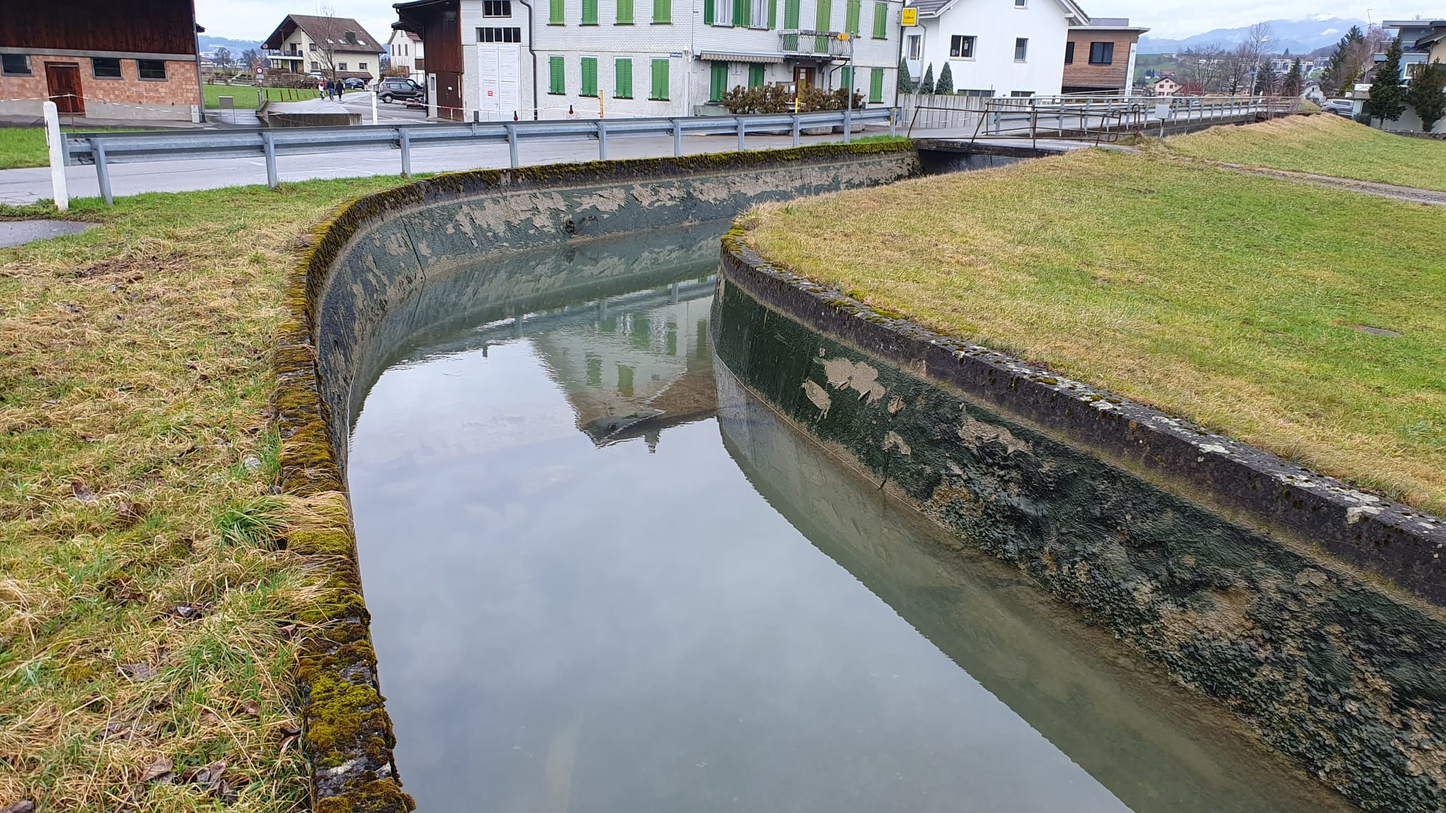
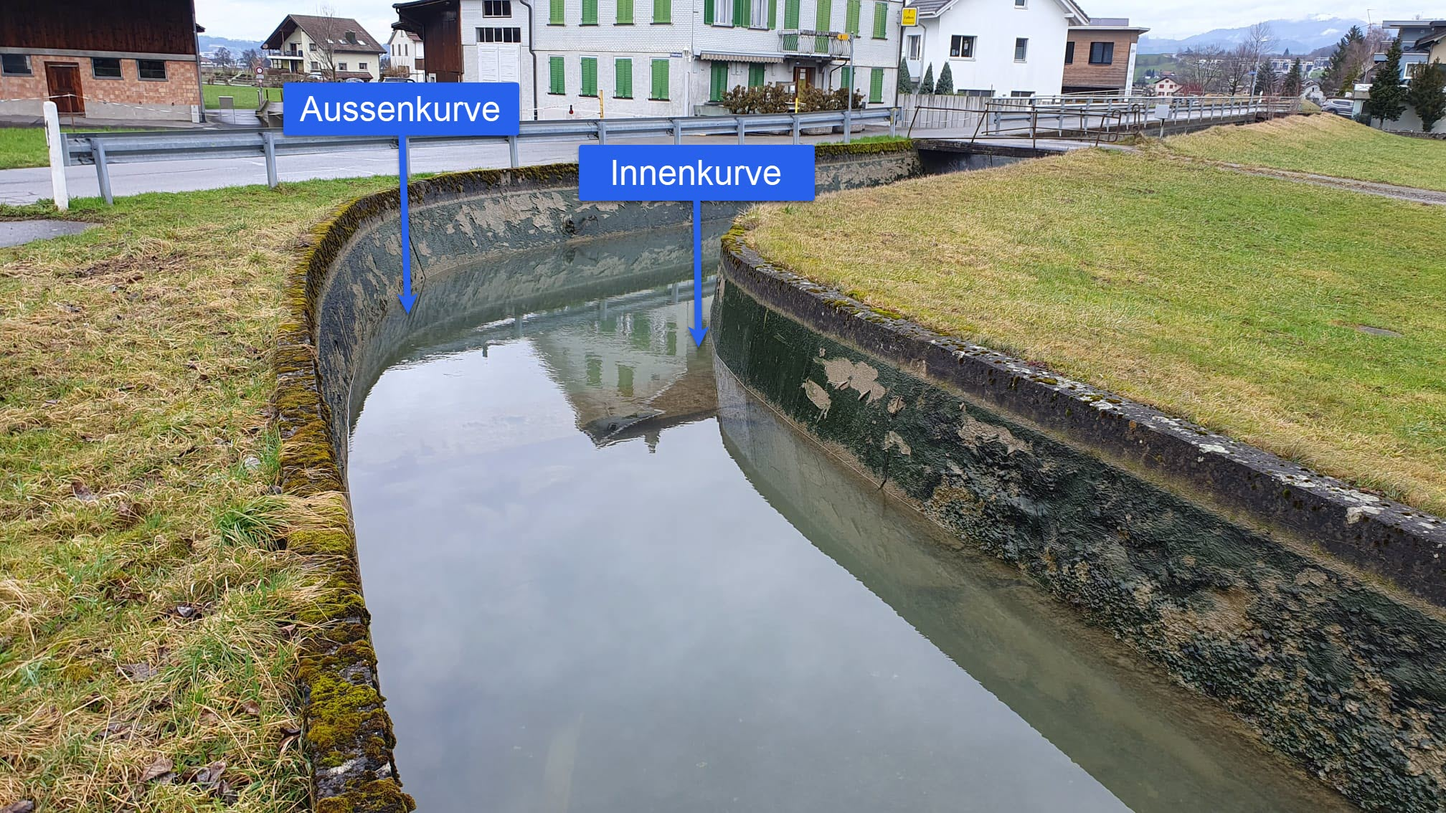
update questions

Changed region(s): [[0.375, 0.1543, 0.5625, 0.4321], [0.1875, 0.0926, 0.375, 0.3704]]

diff --git a/src/assets/data.ts b/src/assets/data.ts
@@ -11,15 +11,15 @@ export const data: QuizQuestion[] = [
   {
     question: "Wie lange ist der Mühlebachkanal?",
     options: ["800 m", "2.7 km", "4.4 km", "13 km"],
-    image: "muehlebach_hoehe_falken.jpg",
-    imageCaption: "Mühlebach auf Höhe Restaraunt Falken in Siebnen.",
+    image: "muehlebach_unterhalb_fabrik.jpg",
+    imageCaption: "Mühlebach auf Höhe Restaraunt Falken in Siebnen mit Blick Richtung Alte Fabrik in Siebnen.",
     description: "Der Mühlebachkanal wird in Siebnen beim Wehr (gegenüber reformierter Kirche) abgezweigt und fliesst auf rund 4.4 km Länge via Wangen nach Nuolen in den Zürichsee.",
     ans: 2,
   },
   {
-    question: "Wie gross ist der Höhenunterschied vom Beginn des Baches in Siebnen bis nach Nuolen?",
+    question: "Wie gross ist der Höhenunterschied vom Beginn des Baches in Siebnen bis ans Ende in Nuolen?",
     image: "ortsnamen_nuolenbach.png",
-    imageCaption: "Verlauf des Nuolenbach von Siebnen bis nach Nuolen. Screenshot von ortsnamen.ch.",
+    imageCaption: "Verlauf des Mühlebach oder Nuolenbach genannt, von Siebnen bis nach Nuolen. Screenshot von ortsnamen.ch.",
     options: ["3.5 Meter", "7 Meter", "15 Meter", "39 Meter"],
     description: "Beim Wehr in Siebnen befindet sich der Bach auf 444 und in Nuolen auf 405 Meter über Meer. Das macht eine Höhendifferenz von 39 Metern.",
     ans: 3,
@@ -27,34 +27,34 @@ export const data: QuizQuestion[] = [
   {
     question: "An wie vielen Stunden im Jahr fliesst Wasser im Mühlebach, welches von der Wägitaler Aa in Siebnen abgezweigt wird?",
     image: "wehr_siebnen.gif",
-    imageCaption: "Wehr bei Aabrücke in Siebnen im Zeitraffer.",
-    options: ["24 Stunden", "2'000 Stunden", "5'000 Stunden", "8'766 Stunden (1 volles Jahr)"],
+    imageCaption: "Wehr bei Aabrücke in Siebnen im Zeitraffer. Hier wird das Wasser für den Mühlebach abgezweigt.",
+    options: ["24 Stunden", "2'000 Stunden", "5'000 Stunden", "8'766 Stunden (das ganze Jahr)"],
     description: "Der Mühlebachkanal kann nur mit Wasser beschickt werden, wenn im Kraftwerk Wägital Strom produziert wird und das Stauwehr unterhalb der Kantonsstrassenbrücke in Siebnen angehoben ist. Das ist in der Regel während 2'000 Stunden im Jahr der Fall, wovon 1'500 Stunden auf das Winterhalbjahr fallen. Das sind 83 Tage oder 23% des Jahres.",
     ans: 1,
   },
   {
     question: "Wann wurde der Mühlebach zum Kanal umgebaut?",
     image: "ew_wirth.png",
-    imageCaption: "Die ehemalige Spinnerei Honegger in Siebnen, heute bekannt als Alte Fabrik. Bild von Valentin Kessler aus Zeitschrift \"Mitteilungen des historischen Vereins des Kantons Schwyz\".",
+    imageCaption: "Die ehemalige Spinnerei Honegger in Siebnen, heute bekannt als Alte Fabrik. Davor der begradigte Mühlebachkanal. Bild: Valentin Kessler",
     options: ["1802", "1852", "1902", "1952"],
-    description: "Im Jahr 1852 initiierte der Unternehmer Caspar Honegger die Kanalisierung des Mühlebachs. Zusätzlich liess er in jener Zeit die Baumwollspinnerei errichten, die heute im Volksmund \"Alte Fabrik\" genannt wird. In dieser Fabrik wurde anfangs Garn und später auch Stoffe hergestellt. Nach Anfangsschwierigkeiten machte man das sehr erfolgreich. In der Neuzeit jedoch immer weniger (Globalisierung, Billigprodukte aus Asien, etc.) und so wurde die Produktion 1979 eingestellt. Die Fabrik steht unter Denkmalschutz und beherbergt heute Kleingewerbe und Studios.",
+    description: "Im Jahr 1852 initiierte der Unternehmer Caspar Honegger die Kanalisierung des Mühlebachs. Zusätzlich liess er in jener Zeit die Baumwollspinnerei errichten, die heute im Volksmund \"Alte Fabrik\" genannt wird. In dieser Fabrik wurde anfangs Garn und später auch Stoffe  für Kleider, Vorhänge, Tischtücher etc. hergestellt. Nach Anfangsschwierigkeiten machte man das sehr erfolgreich. In der Neuzeit jedoch immer weniger (Globalisierung, Billigprodukte aus Asien) und so wurde die Produktion 1979 eingestellt. Die Fabrik steht unter Denkmalschutz und beherbergt heute Kleingewerbe und Studios.",
     ans: 1,
   },
   {
     question: "Wie viele Kleinwasserkraftwerke gibt es heute am Mühlebach?",
-    image: "ew_wirth_turbine_siebnen.jpg",
-    imageCaption: "Turbine auf dem Gelände der Alten Fabrik. Damit wurde Strom für die Fabrik produziert. Aufnahme aus den 1970er Jahren. Foto von Heinz Baumann, ETH Bildarchiv.",
+    image: "alte_turbine_nuolen.jpg",
+    imageCaption: "Alte Turbine in Nuolen. Foto von der Webseite des EW Wangen.",
     options: ["Es gibt heute kein Kraftwerk mehr", "2 Kraftwerke", "4 Krafwerke"],
-    description: "Das Wasser wird auf dem Weg von Siebnen bis Nuolen an vier Standorten in Kleinwasserkraftwerken turbiniert. Das Elektrizitätswerk der Gemeinde Wangen betreibt zwei Kraftwerke. Zum einen das Kraftwerk Seidenweberei in Wangen und zum anderen das Kraftwerk Bruggholz in Nuolen. Zudem betreibt die EW Wirth AG am Mühlebachkanal ebenfalls zwei Kraftwerke. Das Kraftwerk Kopf, welches südlich der SBB-Gleise liegt, sowie das Kraftwerk der ehemaligen Spinnerei auf dem obigen Bild.",
+    description: "Das Wasser wird auf dem Weg von Siebnen bis Nuolen an vier Standorten in Kleinwasserkraftwerken turbiniert. Zwei befinden sich unterhalb der Bahnline, zwei oberhalb in Siebnen. Jene Turbine in Nuolen hat eine elektrische Leistung von 82 kW. Die Jahresproduktion von nur dieser einzelnen Turbine beträgt rund 200'000 kWh. Das entspricht dem Jahresverbrauch von ca. 50 Schweizer Haushalten.",
     ans: 2,
   },
   {
-    question: "Wie viel Strom generiert die Turbine in Nuolen in einem Jahr?",
-    image: "alte_turbine_nuolen.jpg",
-    imageCaption: "Alte Turbine in Nuolen. Foto von der Webseite des EW Wangen.",
-    options: ["Strom für 2 Schweizer Haushalte (8'000 kWh)", "Strom für 10 Schweizer Haushalte (40'000 kWh)", "Strom für 35 Schweizer Haushalte (140'000 kWh)", "Strom für 50 Schweizer Haushalte (200'000 kWh)"],
-    description: "Die elektrische Leistung der Turbine in Nuolen beträgt 82 kW. Die Jahresproduktion beträgt rund 200'000 kWh. Das entspricht dem Jahresverbrauch von ca. 50 Haushalten.",
-    ans: 3,
+    question: "Wo fliesst das Wasser in einer Kurve am schnellsten?",
+    image: "muehlebach_hoehe_falken.jpg",
+    imageCaption: "Mühlebach auf Höhe Restaurant Falken in Siebnen.",
+    options: ["Aussenurve", "Innenkurve", "Überall gleich schnell"],
+    description: "In der Aussenkurve fliesst das Wasser schneller. Da die äussere Seite der Kurve einen grösseren Radius hat als die innere Seite, muss das Wasser an der Aussenseite eine grössere Strecke zurücklegen. Um die Kontinuität aufrechtzuerhalten, erhöht das Wasser seine Geschwindigkeit an der Aussenkurve, während es an der Innekurve  langsamer fliesst. An Flüssen mit einem natürlichen Bachbett kann man diesen Effekt erkennen, an den Sedimenten (Geröll & Sand), welche sich an der Innenkurve ablagern. An der Aussenkurve hingegen wird das Ufer abgetragen.",
+    ans: 0,
   },
   {
     question: "Wie hoch ist die Durchflussmenge des Mühlebachs pro Sekunde?",
@@ -65,9 +65,9 @@ export const data: QuizQuestion[] = [
   {
     question: "Wie stark schwankt der Wasserpegel im Wägitalersee?",
     image: "Wikipedia_Waegitalerstausee_Roland_Zumbuehl.jpg",
-    imageCaption: "Wägitalersee mit Blick nach Innerthal. Foto Wikipedia, Roland Zumbuehl.",
+    imageCaption: "Wägitalersee mit Blick nach Innerthal. Im Hintergrund der Gross Aubrig. Foto Wikipedia, Roland Zumbuehl.",
     options: ["5 Meter", "20 Meter", "50 Meter", "100 Meter"],
-    description: "Um Hangrutsche zu vermeiden, wird nur die Wassermenge zwischen den Staukoten 880 und 900 m ü. Meer bewirtschaftet. Der See kann also um 20 Meter ansteigen oder absinken. Der See hat eine Fläche von 4.18 Quadratkilometern, was 585 Fussballfeldern entspricht. Die maximale Tiefe beträgt 65 Meter. Er fasst 150 Mio. m3 Wasser. Das Füllen des Wägitalersees dauerte zwei Jahre. Aus diesem Grund wurde schon während des Baus der Staumauer mit dem Aufstauen begonnen.",
+    description: "Um Hangrutsche zu vermeiden, wird nur die Wassermenge zwischen den Staukoten 880 und 900 m ü. Meer bewirtschaftet. Der Wägitalersee kann also um 20 Meter ansteigen oder absinken. Der See hat eine Fläche von 4.18 Quadratkilometern, was 585 Fussballfeldern entspricht. Die maximale Tiefe beträgt 65 Meter. Er fasst 150 Mio. m3 Wasser. Das Füllen dauerte zwei Jahre. Aus diesem Grund wurde schon während des Baus der Staumauer mit dem Aufstauen begonnen.",
     ans: 1,
   },
   {
@@ -75,15 +75,15 @@ export const data: QuizQuestion[] = [
     image: "luca-LriqS4xCRi4-unsplash-1024x683.jpg",
     imageCaption: "Die Bauzeit von ca 2 Jahren (1922 - 1924) für Staumauer Schräh war für damalige Verhältnisse enorm kurz. Bild: unsplash",
     options: ["44 Meter", "66 Meter", "88 Meter", "111 Meter"],
-    description: "Die Staumauer ist als Gewichtsstaumauer ausgeführt. Von den 111 m Gesamthöhe sind 66 m sichtbar über der Talsohle. Die Krone ist 156 m lang und oben 4.6 m breit. Unten ist die Mauer 75 m breit.",
+    description: "Die Staumauer ist als Gewichtsstaumauer ausgeführt. Von den 111 m Gesamthöhe sind 66 m sichtbar über der Talsohle. Die Krone ist 156 m lang und oben 4.6 m breit. Unten ist die Mauer 75 m dick.",
     ans: 1,
   },
   {
     question: "Wann läuft die Konzession (Vertrag) für das Kraftwerk Wägital mit der Stadt Zürich und der Axpo aus?",
     image: "SIK_05-IKS-SZ-1609-045.jpg",
-    imageCaption: "Kraftwerk Wägital Zentrale Siebnen. Eine Konzession ist in diesem Fall eine Erlaubnis oder Genehmigung für die Nutzung von Wasserressourcen. Bild: Sylvia Bärtschi, ETH Bildarchiv.",
+    imageCaption: "Kraftwerk Wägital Zentrale Siebnen. Eine Konzession ist in diesem Fall eine Genehmigung für die Nutzung des Wassers vom Wägitalersee, welche der Bezirk March (und somit wir alle) an ein Unternehmen vergeben. Bild: Sylvia Bärtschi, ETH Bildarchiv.",
     options: ["2025", "2040", "2050", "2060"],
-    description: "1921 gründeten die Stadt Zürich und die Nordostschweizerischen Kraftwerke AG (heute Axpo) gemeinsam die AG Kraftwerk Wägital. Die laufende Konzession für das Kraftwerk, die zwischen dem Bezirk March, der Axpo und der Stadt Zürich besteht, wird im Jahr 2040 auslaufen.",
+    description: "1921 gründeten die Stadt Zürich und die Nordostschweizerischen Kraftwerke AG (heute Axpo) gemeinsam die AG Kraftwerk Wägital. Die laufende Konzession für das Kraftwerk, die zwischen dem Bezirk March und der AG Kraftwerk Wägital besteht, wird im Jahre 2040 auslaufen.",
     ans: 1,
   },
 ];

diff --git a/src/components/Quiz/Quiz.tsx b/src/components/Quiz/Quiz.tsx
@@ -4,7 +4,7 @@ import { data } from '../../assets/data';
 import type { QuizQuestion } from '../../assets/data';
 
 function Quiz() {
-  const [index, setIndex] = useState<number>(0);
+  const [index, setIndex] = useState<number>(9);
   const [questions, setQuestions] = useState<QuizQuestion>(data[index]);
   const [questionAns, setQuestionAns] = useState<boolean>(false);
   const [isImageLoaded, setImageLoaded] = useState<boolean>(false);
@@ -15,6 +15,7 @@ function Quiz() {
   useEffect(() => {
     setImageLoaded(false);
     setQuestions(data[index]);
+    window.scrollTo({top: 0, left: 0, behavior: 'smooth'});
   }, [index]);
 
   // eslint-disable-next-line react-hooks/rules-of-hooks
@@ -51,14 +52,48 @@ function Quiz() {
     }
   }
 
+  const reset = () => {
+    setIndex(0);
+    setLocked(false);
+    setScore(0);
+    setQuestionAns(false);
+    setResult(false);
+  }
+
   return (
     <div className="prose max-w-none sm:prose-sm  md:prose-md lg:prose-lg xl:prose-xl">
-      {result ? <h1>Resultat: {score} von {data.length} Punkten</h1> : <h1 className="text-3xl font-bold">{questions.question}</h1>}
+      {result ? <h1 className="text-center">Resultat: {score} von {data.length} Punkten</h1> : <h1 className="text-3xl font-bold">{questions.question}</h1>}
       <hr />
       {result ?
-        <>
-          <p>Hier kommt zuszätzlicher Text oder ein Bild</p>
-        </>
+        <div className="text-center">
+          <p>Hier kommt ein Trophäenbild zum runterladen</p>
+
+          <a
+            type="button"
+            className="rounded-md bg-blue-600 px-10 py-3 text-white hover:text-white no-underline shadow-sm hover:bg-blue-500 focus-visible:outline focus-visible:outline-2 focus-visible:outline-offset-2 focus-visible:outline-blue-600"
+            href="./favicon/og_image.png"
+            download
+          >
+            Bild herunterladen
+          </a>
+
+          {score < data.length && (
+            <>
+            <div className="line-container my-5">
+              <div className="line"></div>
+                <span className="text-gray-400">oder</span>
+              <div className="line"></div>
+            </div>
+            <button
+              type="button"
+              className="rounded-md bg-blue-600 px-10 py-3 text-white shadow-sm hover:bg-blue-500 focus-visible:outline focus-visible:outline-2 focus-visible:outline-offset-2 focus-visible:outline-blue-600"
+              onClick={reset}
+            >
+              Nochmals versuchen
+            </button>
+            </>
+          )}
+        </div>
        :
         <>
           {!isImageLoaded && questions.image && (
@@ -78,7 +113,7 @@ function Quiz() {
                 style={{display: isImageLoaded ? 'block' : 'none'}}
                 alt="Foto zu Quizfrage" 
               />
-              {questions.imageCaption && <figcaption className="caption-bottom text-xs text-gray-400 !mt-0 pt-0.5">{questions.imageCaption}</figcaption>}
+              {questions.imageCaption && <figcaption className="text-gray-400">{questions.imageCaption}</figcaption>}
             </figure>
           )}
           <ul className="list-none !pl-0">

diff --git a/src/components/Quiz/Quiz.css b/src/components/Quiz/Quiz.css
@@ -5,3 +5,16 @@
 .wrong, .wrong:hover, .wrong:focus, .wrong:active {
   background: #FECACA !important;
 }
+
+.line-container {
+  display: flex;
+  align-items: center;
+  justify-content: center;
+  gap: 10px;
+}
+
+.line {
+  flex-grow: 1;
+  height: 1px;
+  background-color: #e5e7eb;
+}

diff --git a/README.md b/README.md
@@ -12,6 +12,7 @@ Inhalt
 2. [Drehzahl des Wasserrades bestimmen](#2-drehzahl-des-wasserrades-bestimmen)
     1. [Drehzahl berechnen](#21-drehzahl-berechnen)
 3. [Konstruktion und Bau](#3-konstruktion-und-bau)
+4. [Webseite und Online-Quiz](#4-webseite-und-online-quiz)
 
 ## 1. Typ und Grösse des Rades bestimmen
 
@@ -155,7 +156,7 @@ ToDo
 
 ![Rad](./docs/images/Rad.drawio.svg)  
 
-## Webseite
+## 4. Webseite und Online-Quiz
 
 [https://philippbruhin.github.io/wasserrad/](https://philippbruhin.github.io/wasserrad/)
 
